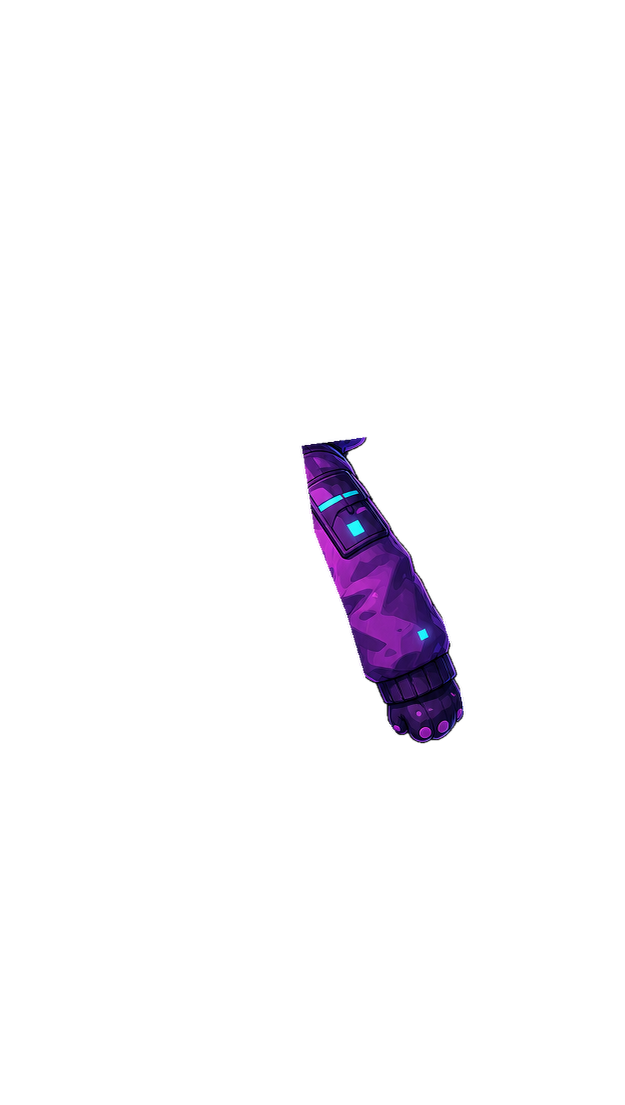
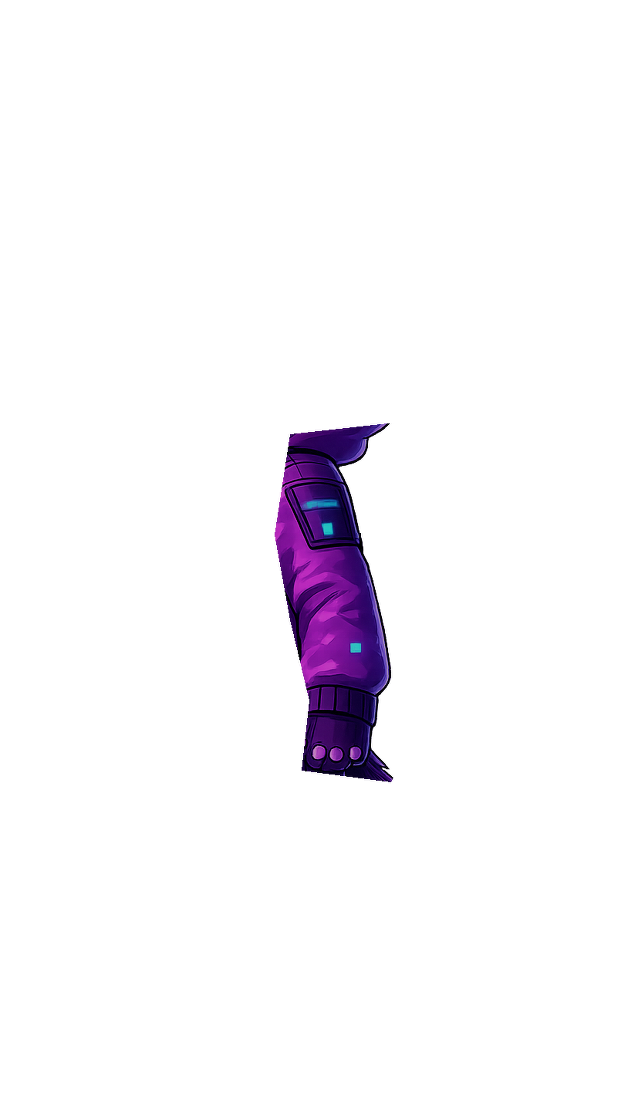
fix(desktop-pet): align profile gait silhouettes

Changed region(s): [[0.4256, 0.3692, 0.76, 0.7077]]

diff --git a/desktop-pet/assets/extract_profile_motion.py b/desktop-pet/assets/extract_profile_motion.py
@@ -2,8 +2,11 @@
 
 The approved body source is a flattened RGBA illustration, not a layered rig.
 This build-time step removes faint generated backdrop residue, keeps the
-character's largest alpha component, and combines it with the separately
-approved two-arm source.
+character's largest alpha component. Both depth layers of each paired limb are
+derived from one strict-profile painting. This is intentional: mixing the
+strict-profile torso with a shallow three-quarter arm or a differently bent
+far leg makes the visible silhouette disagree even when the runtime skeleton
+is mathematically symmetric.
 The jacket and pelvis remain in the body layer.  The tail is emitted as one
 continuous articulated layer with an overlap under the jacket, so it can wag
 without pulling the torso mesh or opening a transparent seam at its root.
@@ -25,10 +28,6 @@ from PIL import Image
 SOURCE_NAME = "rig_master_profile_right.png"
[1 lines of base64/hex data omitted]
 SOURCE_SIZE = (1024, 1536)
-ARMS_SOURCE_NAME = "profile_arms_right.png"
[1 lines of base64/hex data omitted]
-ARMS_SOURCE_SIZE = (944, 1667)
-ARMS_GRABCUT_RECT = (80, 65, 760, 1450)
 OUTPUT_SIZE = (625, 1105)
 CONTENT_HEIGHT = 1000
 CONTENT_TOP = 90
@@ -47,25 +46,6 @@ BODY_ARM_CUTOUT = np.array(
     dtype=np.int32,
 )
 
-# The strict side master contains only one complete sleeve.  The approved arm
-# master was generated specifically with two unobstructed limbs and a complete
-# jacket underneath them.  Their masks stay independent all the way to runtime:
-# far arm -> torso -> near arm is the same depth order used by the walk refs.
-ARMS_FAR = np.array(
-    [
-        [305, 660], [420, 675], [403, 790], [360, 900], [326, 1015],
-        [275, 1085], [200, 1058], [215, 965], [242, 875], [255, 760],
-    ],
-    dtype=np.int32,
-)
-ARMS_NEAR = np.array(
-    [
-        [545, 675], [610, 680], [615, 785], [665, 855], [735, 915],
-        [795, 966], [785, 1035], [735, 1060], [674, 1018], [623, 950],
-        [555, 904], [535, 800],
-    ],
-    dtype=np.int32,
-)
 LEG_FAR_THIGH = np.array(
     [
         [370, 930], [550, 930], [550, 1030], [505, 1145], [325, 1145],
@@ -168,46 +148,6 @@ def approved_rgba(path: Path) -> np.ndarray:
     return rgba
 
 
-def approved_arm_rgba(path: Path) -> np.ndarray:
-    actual_hash = sha256(path)
-    if actual_hash != ARMS_SOURCE_SHA256:
-        raise SystemExit(
-            f"{path.name} is not the approved arm master: "
-            f"{actual_hash} != {ARMS_SOURCE_SHA256}"
-        )
-    image = cv2.imread(str(path), cv2.IMREAD_COLOR)
-    if image is None:
-        raise SystemExit(f"cannot read approved arm master: {path}")
-    actual_size = (image.shape[1], image.shape[0])
-    if actual_size != ARMS_SOURCE_SIZE:
-        raise SystemExit(f"arm extraction calibrated for {ARMS_SOURCE_SIZE}, source is {actual_size}")
-
-    mask = np.full(image.shape[:2], cv2.GC_BGD, dtype=np.uint8)
-    background = np.zeros((1, 65), dtype=np.float64)
-    foreground = np.zeros((1, 65), dtype=np.float64)
-    cv2.grabCut(
-        image,
-        mask,
-        ARMS_GRABCUT_RECT,
-        background,
-        foreground,
-        8,
-        cv2.GC_INIT_WITH_RECT,
-    )
-    alpha = np.where(
-        (mask == cv2.GC_FGD) | (mask == cv2.GC_PR_FGD), 255, 0
-    ).astype(np.uint8)
-    count, labels, stats, _ = cv2.connectedComponentsWithStats(alpha, 8)
-    if count <= 1:
-        raise SystemExit("approved arm foreground was not found")
-    component = 1 + int(np.argmax(stats[1:, cv2.CC_STAT_AREA]))
-    alpha = np.where(labels == component, 255, 0).astype(np.uint8)
-    alpha = cv2.morphologyEx(alpha, cv2.MORPH_CLOSE, np.ones((3, 3), np.uint8))
-    alpha = cv2.GaussianBlur(alpha, (0, 0), 0.7)
-    rgb = cv2.cvtColor(image, cv2.COLOR_BGR2RGB)
-    return np.dstack((rgb, alpha))
-
-
 def selection(alpha: np.ndarray, polygon: np.ndarray) -> np.ndarray:
     matte = np.zeros_like(alpha)
     cv2.fillPoly(matte, [polygon], 255)
@@ -254,7 +194,20 @@ def map_point(
     )
 
 
+def depth_tint(layer: np.ndarray, factor: float) -> np.ndarray:
+    """Darken one identical limb copy without changing its silhouette."""
+    tinted = layer.copy()
+    visible = tinted[..., 3] > 0
+    tinted[..., :3][visible] = np.clip(
+        tinted[..., :3][visible].astype(np.float32) * factor,
+        0,
+        255,
+    ).astype(np.uint8)
+    return tinted
+
+
 def shift_layer(layer: np.ndarray, dx: float, dy: float) -> np.ndarray:
+    """Move a complete layer and its socket together in the shared canvas."""
     matrix = np.array([[1.0, 0.0, dx], [0.0, 1.0, dy]], dtype=np.float32)
     return cv2.warpAffine(
         layer,
@@ -273,13 +226,6 @@ def main() -> None:
     alpha = rgba[..., 3]
     bounds = cv2.boundingRect((alpha > ALPHA_FLOOR).astype(np.uint8))
     rgb = rgba[..., :3]
-
-    arm_rgba = approved_arm_rgba(base / "source" / ARMS_SOURCE_NAME)
-    arm_alpha = arm_rgba[..., 3]
-    arm_bounds = cv2.boundingRect((arm_alpha > ALPHA_FLOOR).astype(np.uint8))
-    arm_rgb = arm_rgba[..., :3]
-    arm_far_source = selection(arm_alpha, ARMS_FAR)
-    arm_near_source = selection(arm_alpha, ARMS_NEAR)
 
     body_arm_cutout = selection(alpha, BODY_ARM_CUTOUT)
     leg_far_thigh = selection(alpha, LEG_FAR_THIGH)
@@ -316,10 +262,13 @@ def main() -> None:
     body_rgb = cv2.inpaint(rgb, backing_holes, 5.0, cv2.INPAINT_TELEA)
     body = cv2.bitwise_or(body, backing)
 
+    # The near leg is the only clean, nearly straight profile painting in the
+    # approved master. Reusing that exact silhouette for the far depth layer is
+    # what makes both support phases visibly symmetric; joint-coordinate tests
+    # alone cannot straighten wrinkles painted into the old far leg.
     layers = {
         "body": (body_rgb, body),
         "tail": (rgb, tail),
-        "leg_far": (rgb, leg_far),
         "leg_near": (rgb, leg_near),
     }
     transformed: dict[str, np.ndarray] = {}
@@ -333,29 +282,34 @@ def main() -> None:
             base / f"profile_motion_left_{name}.png"
         )
 
+    canonical_leg = transformed["leg_near"]
+    transformed["leg_far"] = depth_tint(canonical_leg, 0.78)
+    for facing, layer in (
+        ("right", transformed["leg_far"]),
+        ("left", np.flip(transformed["leg_far"], axis=1).copy()),
+    ):
+        Image.fromarray(layer, "RGBA").save(
+            base / f"profile_motion_{facing}_leg_far.png"
+        )
+
     mapped = lambda point: map_point(point, bounds, scale, origin_x, origin_y)
     visor_top_left = mapped((515.0, 300.0))
     visor_bottom_right = mapped((730.0, 605.0))
+    # One complete strict-profile sleeve supplies both arms. Their sockets are
+    # separated only by a few source pixels so the depth reads as two shoulders
+    # without moving either limb to the opposite edge of a side-view torso.
+    canonical_arm, _, _, _ = runtime_layer(rgb, body_arm_cutout, bounds)
+    canonical_arm_pivot = mapped((365.0, 555.0))
     arm_pivots = {
-        "arm_far": mapped((365.0, 555.0)),
-        "arm_near": mapped((620.0, 555.0)),
+        "arm_far": (canonical_arm_pivot[0] - 6.0, canonical_arm_pivot[1] - 3.0),
+        "arm_near": (canonical_arm_pivot[0] + 6.0, canonical_arm_pivot[1] + 3.0),
     }
-    donor_pivots = {
-        "arm_far": (330.0, 700.0),
-        "arm_near": (540.0, 700.0),
-    }
-    for name, matte in (("arm_far", arm_far_source), ("arm_near", arm_near_source)):
-        layer, donor_scale, donor_origin_x, donor_origin_y = runtime_layer(
-            arm_rgb, matte, arm_bounds
-        )
-        donor_pivot = map_point(
-            donor_pivots[name], arm_bounds, donor_scale, donor_origin_x, donor_origin_y
-        )
-        target_pivot = arm_pivots[name]
+    arm_offsets = {"arm_far": (-6.0, -3.0), "arm_near": (6.0, 3.0)}
+    for name, factor in (("arm_far", 0.76), ("arm_near", 1.0)):
         layer = shift_layer(
-            layer,
-            target_pivot[0] - donor_pivot[0],
-            target_pivot[1] - donor_pivot[1],
+            depth_tint(canonical_arm, factor),
+            arm_offsets[name][0],
+            arm_offsets[name][1],
         )
         transformed[name] = layer
         Image.fromarray(layer, "RGBA").save(base / f"profile_motion_right_{name}.png")
@@ -363,17 +317,14 @@ def main() -> None:
             base / f"profile_motion_left_{name}.png"
         )
     tail_pivot = mapped((410.0, 970.0))
+    canonical_leg_joints = {
+        "hip": mapped((575.0, 885.0)),
+        "knee": mapped((585.0, 1115.0)),
+        "ankle": mapped((610.0, 1265.0)),
+    }
     leg_joints = {
-        "far": {
-            "hip": mapped((430.0, 885.0)),
-            "knee": mapped((375.0, 1110.0)),
-            "ankle": mapped((385.0, 1265.0)),
-        },
-        "near": {
-            "hip": mapped((575.0, 885.0)),
-            "knee": mapped((585.0, 1115.0)),
-            "ankle": mapped((610.0, 1265.0)),
-        },
+        "far": dict(canonical_leg_joints),
+        "near": dict(canonical_leg_joints),
     }
 
     def limb(filename: str, pivot: tuple[float, float]) -> dict[str, float | str]:

diff --git a/desktop-pet/apps/pet_host/src/main.rs b/desktop-pet/apps/pet_host/src/main.rs
@@ -2085,12 +2085,22 @@ fn warped_profile_attachment(
 /// stretches the hood and opens a gap at the separate sleeve. Locomotion must
 /// therefore preserve this silhouette until matching authored torso/arm poses
 /// exist.
-fn profile_body_warp(mut warp: Warp, _walk: &Walk, _facing_right: bool) -> Warp {
+fn profile_body_warp(mut warp: Warp, walk: &Walk, _facing_right: bool) -> Warp {
     // The hood and head occupy the first two control rows.  They are a single
     // painted solid, so unequal row offsets stretch the skull and upper back.
     // Copying the complete row preserves any ear expression but makes this
     // vertical band rigid before locomotion is layered on top.
     warp.copy_row(0, 1);
+
+    // The approved profile painting has its hood mass slightly behind the
+    // pelvis. Without an explicit locomotion lean that authored balance reads
+    // as falling backwards as soon as the paws advance. Move the complete head
+    // band as one rigid unit and taper the translation into the ribcage; the
+    // pelvis remains the hierarchy root, and arm sockets sample this same warp.
+    let forward = walk.body_lean() * 0.16 * walk.blend;
+    warp.add_row(0, -forward, 0.0);
+    warp.add_row(1, -forward, 0.0);
+    warp.add_row(2, -forward * 0.44, 0.0);
 
     warp
 }
@@ -2102,12 +2112,12 @@ fn profile_body_warp(mut warp: Warp, _walk: &Walk, _facing_right: bool) -> Warp 
 /// exact opposition during contact/down/passing/up and cannot drift out of phase
 /// when walk speed or stance duration changes.
 fn profile_arm_angles(motions: [LegMotion; 2], walk: &Walk, facing: f32) -> (f32, f32) {
-    // The two authored sleeves are deliberately supplied in the first contact
-    // pose (far arm back, near arm ahead), not vertically neutral. Subtracting
-    // that authored lean converts both paintings to one canonical shoulder
-    // angle before applying the reference-driven counter-swing.
-    const AUTHORED_LEAN: [f32; 2] = [0.34, -0.52];
-    let amplitude = mix(0.64, 0.88, smooth_unit(walk.run));
+    // Both depth layers are copies of the same almost-vertical strict-profile
+    // sleeve. Their authored correction is therefore shared and neutral. At
+    // contact this leaves both arms at opposite readable extremes instead of
+    // parking one behind the ribcage for each half-step.
+    const AUTHORED_LEAN: [f32; 2] = [0.0, 0.0];
+    let amplitude = mix(0.90, 1.06, smooth_unit(walk.run));
     (
         (motions[0].horizontal * amplitude - AUTHORED_LEAN[0]) * facing * walk.blend,
         (motions[1].horizontal * amplitude - AUTHORED_LEAN[1]) * facing * walk.blend,
@@ -3241,6 +3251,7 @@ mod gait_tests {
         let stride_pose = Walk {
             phase: std::f32::consts::FRAC_PI_2,
             blend: 1.0,
+            lean: 0.30,
             ..Walk::default()
         };
         let warp = profile_body_warp(Warp::identity(), &stride_pose, true);
@@ -3257,13 +3268,13 @@ mod gait_tests {
             assert!((head_top.y - head_base.y).abs() < 0.01);
         }
 
-        // A one-layer profile torso cannot be twisted into a convincing 3D
-        // shoulder turn. Every point remains on the authored silhouette; arm
-        // motion will return only with matching authored socket layers.
+        // The torso receives one forward sagittal lean, not an artificial 3D
+        // shoulder twist. Both sides of a row must therefore move together.
         let near_shoulder = visible(0.38, 0.50);
         let far_shoulder = visible(0.62, 0.50);
-        assert_eq!(near_shoulder, Vec2::default());
-        assert_eq!(far_shoulder, Vec2::default());
+        assert!((near_shoulder.x - far_shoulder.x).abs() < 0.01);
+        assert!((near_shoulder.y - far_shoulder.y).abs() < 0.01);
+        assert!(near_shoulder.x > body_size.0 as f32 * 0.015);
         assert_eq!(visible(0.5, 0.75), Vec2::default());
     }
 
@@ -3405,6 +3416,21 @@ mod gait_tests {
         let assets = Assets::load().expect("production assets load");
         let rig = assets.build(0.22);
         for (pose, facing_right) in [(&rig.profile_right, true), (&rig.profile_left, false)] {
+            assert_eq!(pose.leg_chains.len(), 2);
+            let far = &pose.leg_chains[0];
+            let near = &pose.leg_chains[1];
+            for (far_joint, near_joint) in [
+                (far.hip, near.hip),
+                (far.knee, near.knee),
+                (far.ankle, near.ankle),
+            ] {
+                assert!(point_distance(far_joint, near_joint) < 1e-4);
+            }
+            assert_eq!(
+                (far.sprite.width(), far.sprite.height()),
+                (near.sprite.width(), near.sprite.height()),
+                "far and near depth layers must retain one visible silhouette"
+            );
             let metrics = profile_leg_metrics(&pose.leg_chains);
             let tracks = profile_leg_tracks(&pose.leg_chains, facing_right);
             for sample in 0..64 {
@@ -3462,6 +3488,26 @@ mod gait_tests {
     }
 
     #[test]
+    fn profile_arms_use_two_nearby_depth_sockets() {
+        let assets = Assets::load().expect("production assets load");
+        let rig = assets.build(0.22);
+        for pose in [&rig.profile_right, &rig.profile_left] {
+            let (Some((_, far_pivot, far_origin)), Some((_, near_pivot, near_origin))) =
+                (&pose.arm_far, &pose.arm_near)
+            else {
+                panic!("production profile rig must contain both arm depth layers");
+            };
+            let far_socket = Vec2::new(far_origin.x + far_pivot.0, far_origin.y + far_pivot.1);
+            let near_socket = Vec2::new(near_origin.x + near_pivot.0, near_origin.y + near_pivot.1);
+            let separation = (far_socket.x - near_socket.x).hypot(far_socket.y - near_socket.y);
+            assert!(
+                (1.5..=4.0).contains(&separation),
+                "arm sockets must read as two depth planes of one shoulder: {separation}"
+            );
+        }
+    }
+
+    #[test]
     fn arms_counter_swing_with_their_matching_legs() {
         for sample in 0..64 {
             let walk = Walk {
@@ -3471,10 +3517,7 @@ mod gait_tests {
             };
             let motions = [walk.profile_leg_motion(0), walk.profile_leg_motion(1)];
             let angles = profile_arm_angles(motions, &walk, 1.0);
-            let expected = (
-                motions[0].horizontal * 0.64 - 0.34,
-                motions[1].horizontal * 0.64 + 0.52,
-            );
+            let expected = (motions[0].horizontal * 0.90, motions[1].horizontal * 0.90);
             assert!((angles.0 - expected.0).abs() < 1e-5);
             assert!((angles.1 - expected.1).abs() < 1e-5);
         }
@@ -3486,7 +3529,7 @@ mod gait_tests {
         };
         let motions = [contact.profile_leg_motion(0), contact.profile_leg_motion(1)];
         let angles = profile_arm_angles(motions, &contact, 1.0);
-        assert!(angles.0.abs() < 0.03 && angles.1 > 0.20);
+        assert!(angles.0 > 0.30 && angles.1 < -0.30);
 
         let opposite = Walk {
             phase: std::f32::consts::PI,
@@ -3498,7 +3541,7 @@ mod gait_tests {
             opposite.profile_leg_motion(1),
         ];
         let angles = profile_arm_angles(motions, &opposite, 1.0);
-        assert!(angles.0 < -0.55 && angles.1 > 0.80);
+        assert!(angles.0 < -0.30 && angles.1 > 0.30);
     }
 
     #[test]

diff --git a/desktop-pet/assets/PROFILE_ARMS_RIG_PROMPT.md b/desktop-pet/assets/PROFILE_ARMS_RIG_PROMPT.md
@@ -1,4 +1,13 @@
-# Prompt: side-profile arm rig for walking and running
+# Archived prompt: rejected side-profile arm candidate
+
+`source/profile_arms_right.png` is retained for provenance but is not a runtime
+input. Its shallow three-quarter shoulders do not match the approved strict
+profile torso. `extract_profile_motion.py` deliberately derives both arm depth
+layers from the one complete strict-profile sleeve in
+`source/rig_master_profile_right.png`, preventing the attachment mismatch from
+returning through asset regeneration.
+
+The prompt below is historical and must not be used to replace the active rig.
 
 Use the newly generated right-facing side-profile image as the **primary
 reference**. Use `source/stand.png` only as a secondary identity reference.
